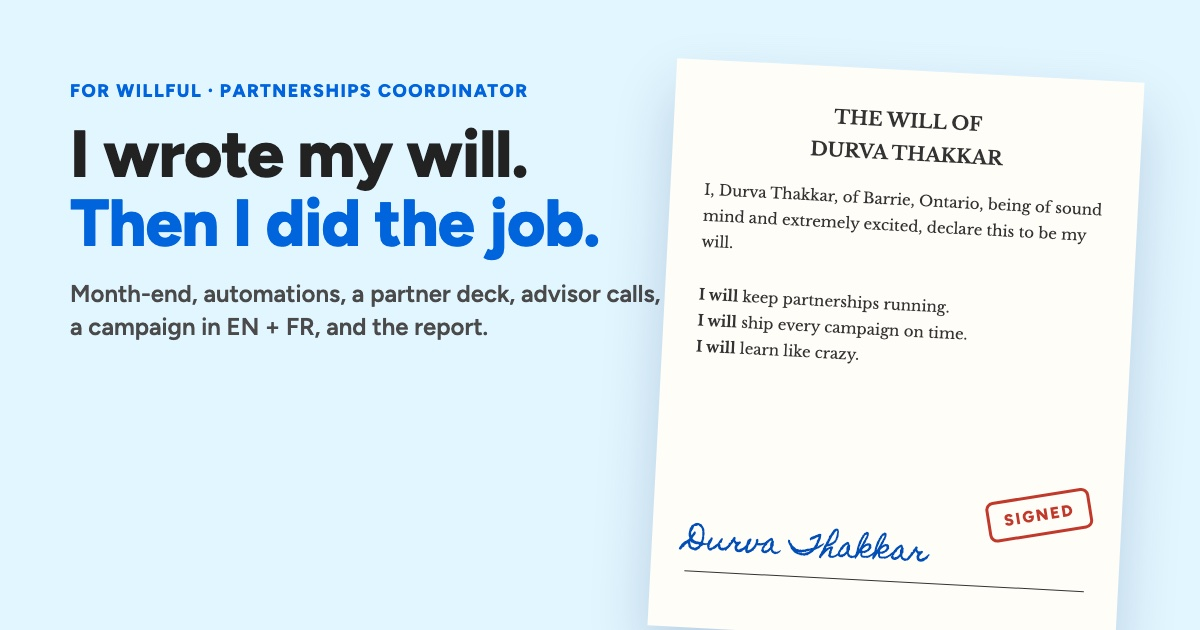
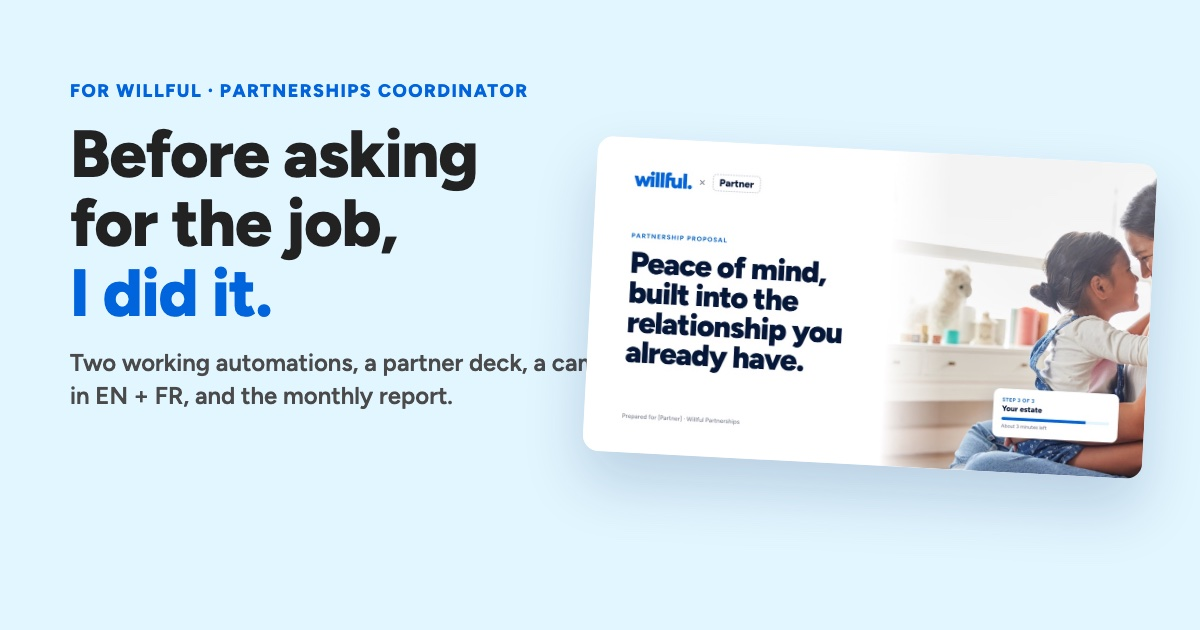
Willful: remove the will, hero shows the work instead

diff --git a/willful/index.html b/willful/index.html
@@ -3,14 +3,14 @@
 <head>
 <meta charset="utf-8">
 <meta name="viewport" content="width=device-width,initial-scale=1">
-<title>Durva's Will · for Willful</title>
-<meta name="description" content="Durva's will, and the Partnerships Coordinator job already done for Willful: working automations, a partner deck, campaign assets and reporting.">
+<title>Durva Thakkar · for Willful</title>
+<meta name="description" content="The Partnerships Coordinator job, already done for Willful by Durva Thakkar: working automations, a partner deck, campaign assets and reporting.">
 <meta name="robots" content="noindex">
-<meta property="og:title" content="I wrote my will. Then I did the job.">
+<meta property="og:title" content="Before asking for the job, I did it. Durva for Willful.">
 <meta property="og:description" content="Working month-end and advisor automations, a 10-slide partner deck, a campaign in English and French, and the monthly report. Made for Willful.">
 <meta property="og:type" content="website">
 <meta property="og:url" content="https://durvathakkar.com/willful/">
-<meta property="og:image" content="https://durvathakkar.com/willful/share.jpg?v=3">
+<meta property="og:image" content="https://durvathakkar.com/willful/share.jpg?v=4">
 <meta property="og:image:width" content="1200">
 <meta property="og:image:height" content="630">
 <meta name="twitter:card" content="summary_large_image">
@@ -69,6 +69,15 @@ nav .links a:hover{color:var(--blue)}
 .menu a:hover{border-color:var(--blue);transform:translateY(-2px)}
 .menu a i{flex:none;width:34px;height:34px;border-radius:10px;background:var(--ice);display:grid;place-items:center;font-style:normal;font-size:17px}
 .menu a small{display:block;font:500 12.5px Figtree;color:var(--muted)}
+.stack{position:relative;height:460px}
+.sk{position:absolute;display:block;border-radius:16px;overflow:hidden;box-shadow:0 30px 60px rgba(6,24,58,.18);border:1px solid var(--line);transition:transform .25s}
+.sk:hover{transform:translateY(-6px)!important}
+.sk1{left:0;top:10px;width:78%;transform:rotate(-2deg);z-index:2}
+.sk2{right:0;top:170px;width:66%;transform:rotate(2deg);z-index:3}
+.sk3{left:6%;top:230px;width:30%;transform:rotate(-4deg);z-index:4}
+.sk4{position:absolute;right:4%;top:0;z-index:5;background:#fff;border-radius:14px;padding:12px 16px;box-shadow:0 16px 40px rgba(6,24,58,.16);font-size:13px;display:flex;flex-direction:column}
+.sk4 b{color:var(--green);font-size:15px}
+@media(max-width:900px){.stack{height:auto;aspect-ratio:1/0.85}}
 .will{background:var(--paper);border:1px solid #eee3c8;box-shadow:0 30px 60px rgba(6,24,58,.13);padding:clamp(24px,4vw,46px);font-family:'Libre Baskerville',serif;font-size:15.5px;line-height:1.85;color:#2b2b2b;transform:rotate(.7deg)}
 .will h4{font:700 19px 'Libre Baskerville',serif;text-align:center;letter-spacing:.6px;margin-bottom:4px;color:#222}
 .will .sub{text-align:center;font-style:italic;color:#777;font-size:13.5px;margin-bottom:20px}
@@ -316,8 +325,8 @@ details.code pre{margin:0;background:var(--code);color:#e2e8f0;font:500 12.5px/1
   <div class="wrap">
     <div>
       <div class="hi">Hi Arnaud and Erin 👋</div>
-      <h1>I wrote my will.<br><span>Then I did the job.</span></h1>
-      <p class="lead">Before asking for the Partnerships Coordinator role, I built it. Two automations you can run right here, a partner deck, a campaign in English and French, and the report you'd get from me every month.</p>
+      <h1>Before asking for the job,<br><span>I did it.</span></h1>
+      <p class="lead">Everything the Partnerships Coordinator role asks for, built for Willful. Two automations you can run right here, a partner deck, a campaign in English and French, and the report you'd get from me every month.</p>
       <div class="menu">
         <a href="#autopilot"><i>⚙</i><span>Month-end autopilot<small>Run it. It really works.</small></span></a>
         <a href="#advisor-auto"><i>🤝</i><span>Advisor onboarding<small>Sign up a test advisor</small></span></a>
@@ -325,21 +334,11 @@ details.code pre{margin:0;background:var(--code);color:#e2e8f0;font:500 12.5px/1
         <a href="#campaign"><i>📣</i><span>Campaign kit<small>Posts, a reel, EN/FR email</small></span></a>
       </div>
     </div>
-    <div class="will">
-      <h4>THE WILL OF DURVA THAKKAR</h4>
-      <div class="sub">on the matter of the Partnerships Coordinator role</div>
-      <p>I, Durva Thakkar, of Barrie, Ontario, being of sound mind and wanting this job quite a lot, declare this to be my will.</p>
-      <p>To Willful's partnerships team, I leave the following:</p>
-      <ol>
-        <li>The boring parts, done well, so Arnaud can spend his time with partners.</li>
-        <li>Every campaign out on the date we agreed, and a heads-up the moment one isn't.</li>
-        <li>Numbers that are right, and updates that say plainly what's working and what isn't.</li>
-        <li>My French, which is a real start and getting better every week.</li>
-        <li>A promise to learn estate planning properly, starting with making my own will on Willful.</li>
-      </ol>
-      <p>The rest of this page is my proof.</p>
-      <div class="sig">Durva Thakkar</div>
-      <div class="line">Durva Thakkar, the willing</div>
+    <div class="stack">
+      <a class="sk sk1" href="#deck"><img src="img/deck-cover.jpg" alt="Partner deck cover"></a>
+      <a class="sk sk2" href="#deck"><img src="img/deck-7.jpg" alt="Co-branded landing page slide"></a>
+      <a class="sk sk3" href="#campaign"><img src="posts/post-4.jpg" alt="Notes app post"></a>
+      <div class="sk4"><b>✓ November close</b><span>3 invoices · 4 emails drafted · 2.7s</span></div>
     </div>
   </div>
 </header>
@@ -578,17 +577,11 @@ details.code pre{margin:0;background:var(--code);color:#e2e8f0;font:500 12.5px/1
 <!-- CLOSE -->
 <section class="close" id="sign">
   <div class="wrap">
-    <h2>That's the will, and the work.</h2>
-    <p class="lead" style="margin:10px auto 0">If any of it is useful, I'd love 30 minutes with you, Arnaud. And if you want to witness the will, sign below. Not legally binding, but fun.</p>
-    <div class="sigs">
-      <div class="sigbox"><span class="ds">Durva Thakkar</span>Durva Thakkar</div>
-      <div class="sigbox"><canvas id="c1"></canvas><button class="clr" data-c="c1">clear</button>Witness · Arnaud Vézina</div>
-      <div class="sigbox"><canvas id="c2"></canvas><button class="clr" data-c="c2">clear</button>Witness · Erin Bury</div>
-    </div>
-    <div style="height:60px;display:grid;place-items:center"><span class="stamp" id="stamp">SIGNED · WITNESSED</span></div>
+    <h2>That's the work. Let's talk?</h2>
+    <p class="lead" style="margin:10px auto 0">If any of it is useful, I'd love 30 minutes with you, Arnaud and Erin, to hear what the partnerships team needs most.</p>
     <div class="me"><img src="../assets/durva-headshot.jpg" alt="Durva Thakkar"><div><b>Durva Thakkar</b><br>Barrie, Ontario · happy fully remote</div></div>
     <div style="display:flex;gap:12px;justify-content:center;flex-wrap:wrap"><a class="btn" href="mailto:durvathakker7@gmail.com?subject=Willful%20%C2%B7%20Partnerships%20Coordinator">durvathakker7@gmail.com</a><a class="btn ghost" href="https://www.linkedin.com/in/durvathakkar/" target="_blank" rel="noopener">Durva on LinkedIn ↗</a></div>
-    <p class="fine">Partners, people and numbers marked "sample" are made up to show the work. Willful's photos, illustrations and facts come from willful.co. This isn't a legal will. For a real one, Willful is very good.</p>
+    <p class="fine">Partners, people and numbers marked "sample" are made up to show the work. Willful's photos, illustrations and facts come from willful.co.</p>
   </div>
 </section>
 
@@ -717,15 +710,6 @@ function dash(m){const d=M[m],p=M[Math.max(m-1,0)];const ch=(a,b)=>m===0?'<em cl
  $('#note').innerHTML=NOTES[m];$('#noteSub').textContent=d.name+' partnerships: what worked, what didn\'t';$$('#mTabs button').forEach(b=>b.classList.toggle('on',+b.dataset.m===m))}
 $$('#mTabs button').forEach(b=>b.onclick=()=>dash(+b.dataset.m));dash(2);
 
-/* signatures */
-const drawn={c1:false,c2:false};
-function size(){['c1','c2'].forEach(id=>{const c=$('#'+id),r=c.getBoundingClientRect(),d=devicePixelRatio||1;if(!r.width)return;c.width=r.width*d;c.height=r.height*d;const x=c.getContext('2d');x.scale(d,d);x.lineWidth=2.2;x.lineCap='round';x.lineJoin='round';x.strokeStyle='#004eb6'})}
-size();addEventListener('resize',size);
-['c1','c2'].forEach(id=>{const c=$('#'+id);let on=false,lx,ly;const pt=e=>{const r=c.getBoundingClientRect();return[e.clientX-r.left,e.clientY-r.top]};
- c.addEventListener('pointerdown',e=>{on=true;[lx,ly]=pt(e);c.setPointerCapture(e.pointerId)});
- c.addEventListener('pointermove',e=>{if(!on)return;const[x,y]=pt(e),g=c.getContext('2d');g.beginPath();g.moveTo(lx,ly);g.lineTo(x,y);g.stroke();lx=x;ly=y;drawn[id]=true});
- ['pointerup','pointercancel'].forEach(t=>c.addEventListener(t,()=>{if(on&&drawn[id])$('#stamp').classList.add('on');on=false}))});
-$$('.clr').forEach(b=>b.onclick=()=>{const c=$('#'+b.dataset.c);c.getContext('2d').clearRect(0,0,c.width,c.height);drawn[b.dataset.c]=false;if(!drawn.c1&&!drawn.c2)$('#stamp').classList.remove('on')});
 </script>
 </body>
 </html>
